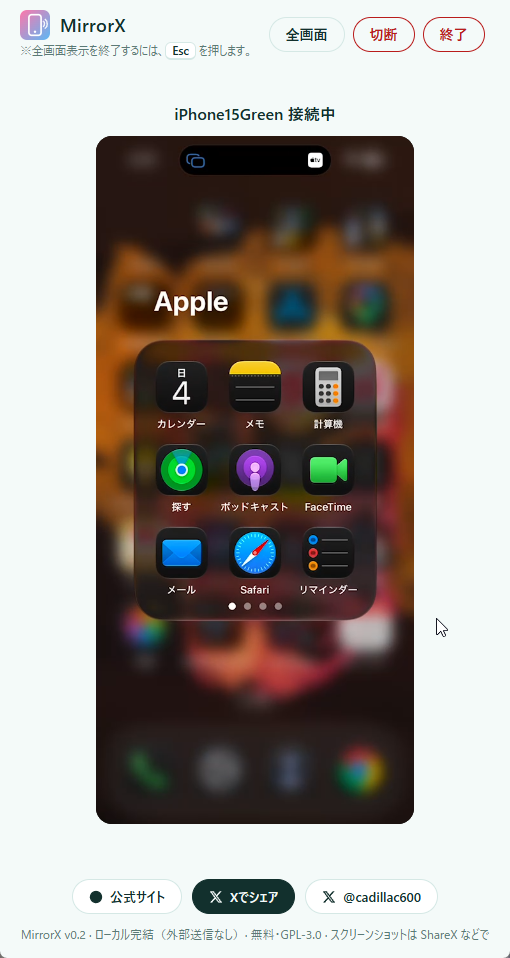
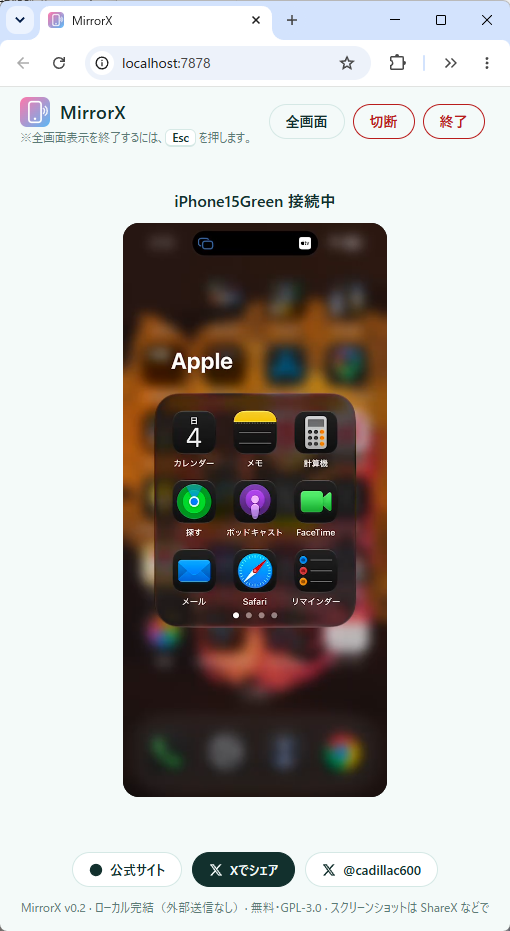
Hero screenshot: full Chrome window + caption

diff --git a/public/index.html b/public/index.html
@@ -85,8 +85,9 @@
   </div>
 
   <div class="hero-visual reveal">
-    <img class="hero-shot" src="images/demo-mirror.png" alt="MirrorX の画面。パソコンのブラウザに、iPhoneのホーム画面が映っている" width="510" height="958">
+    <img class="hero-shot" src="images/demo-mirror.png" alt="Google Chrome に MirrorX の画面が開き、iPhoneのホーム画面が映っているようす" width="510" height="931">
     <p class="hero-visual-note">こんなふうに、映ります。</p>
+    <p class="hero-visual-sub">（Google Chrome・パソコンの画面）</p>
   </div>
 </section>
 

diff --git a/public/style.css b/public/style.css
@@ -172,6 +172,7 @@ a{ color:inherit; }
 .hero-visual img{ width:100%; border-radius:var(--radius-md); }
 .hero-visual img.hero-shot{ display:block; width:100%; max-width:340px; height:auto; margin:0 auto; border:1px solid rgba(42,39,72,.12); box-shadow:0 8px 24px rgba(42,39,72,.12); }
 .hero-visual-note{ color:var(--pink-deep); font-weight:800; text-align:center; margin:14px 0 0; }
+.hero-visual-sub{ color:var(--ink-soft, #6b6785); font-size:.82rem; text-align:center; margin:4px 0 0; }
 
 /* ============ SECTION shells ============ */
 .section{ padding:68px 20px; }
